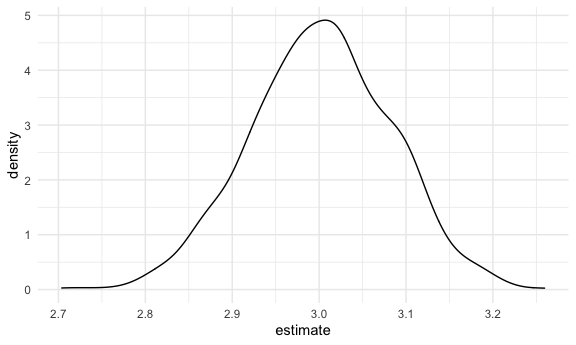
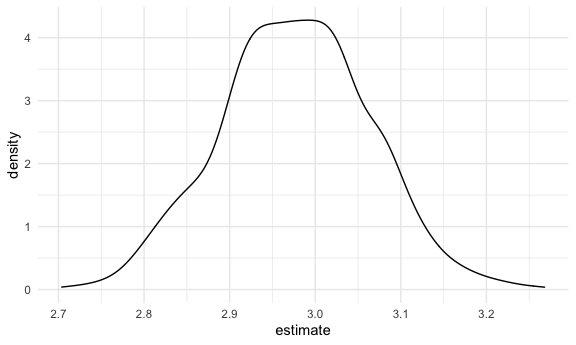
bootstrappping with airbnb dataset

diff --git a/bootstrapping.md b/bootstrapping.md
@@ -18,6 +18,7 @@ library(tidyverse)
 
 ``` r
 library(modelr)
+library(p8105.datasets)
 
 knitr::opts_chunk$set(
   fig.width = 6,
@@ -98,8 +99,8 @@ lm(y ~ x, data = sim_df_const) %>%  broom::tidy()
     ## # A tibble: 2 x 5
     ##   term        estimate std.error statistic   p.value
     ##   <chr>          <dbl>     <dbl>     <dbl>     <dbl>
-    ## 1 (Intercept)     2.02    0.0845      23.9 2.09e- 66
-    ## 2 x               2.98    0.0604      49.4 2.61e-130
+    ## 1 (Intercept)     1.85    0.0948      19.5 4.04e- 52
+    ## 2 x               3.12    0.0664      47.0 1.72e-125
 
 ``` r
 lm(y ~ x, data = sim_df_nonconst) %>%  broom::tidy()
@@ -108,8 +109,8 @@ lm(y ~ x, data = sim_df_nonconst) %>%  broom::tidy()
     ## # A tibble: 2 x 5
     ##   term        estimate std.error statistic   p.value
     ##   <chr>          <dbl>     <dbl>     <dbl>     <dbl>
-    ## 1 (Intercept)     1.99    0.0857      23.2 3.41e- 64
-    ## 2 x               3.00    0.0613      48.9 2.00e-129
+    ## 1 (Intercept)     2.09    0.102       20.6 1.22e- 55
+    ## 2 x               2.98    0.0711      41.9 1.88e-114
 
 Step 2 - bootstrap \#\# Draw one bootstrap sample
 
@@ -147,8 +148,8 @@ boot_sample(sim_df_nonconst) %>%
     ## # A tibble: 2 x 5
     ##   term        estimate std.error statistic   p.value
     ##   <chr>          <dbl>     <dbl>     <dbl>     <dbl>
-    ## 1 (Intercept)     1.94    0.0823      23.6 2.10e- 65
-    ## 2 x               3.02    0.0603      50.1 8.15e-132
+    ## 1 (Intercept)     2.12    0.0976      21.7 2.41e- 59
+    ## 2 x               2.92    0.0671      43.6 3.09e-118
 
 ## Many samples and analysis
 
@@ -189,8 +190,8 @@ boot_results %>%
     ## # A tibble: 2 x 3
     ##   term        mean_est sd_est
     ##   <chr>          <dbl>  <dbl>
-    ## 1 (Intercept)     1.99 0.0591
-    ## 2 x               3.00 0.0811
+    ## 1 (Intercept)     2.09 0.0635
+    ## 2 x               2.98 0.0878
 
 look at the distributions
 
@@ -219,8 +220,8 @@ boot_results %>%
     ## # A tibble: 2 x 3
     ##   term        ci_lower ci_upper
     ##   <chr>          <dbl>    <dbl>
-    ## 1 (Intercept)     1.87     2.10
-    ## 2 x               2.85     3.16
+    ## 1 (Intercept)     1.97     2.22
+    ## 2 x               2.81     3.15
 
 ## Bootstrap using modelr package
 
@@ -247,5 +248,84 @@ sim_df_nonconst %>%
     ## # A tibble: 2 x 3
     ##   term        ci_lower ci_upper
     ##   <chr>          <dbl>    <dbl>
-    ## 1 (Intercept)     1.88     2.10
-    ## 2 x               2.83     3.16
+    ## 1 (Intercept)     1.97     2.22
+    ## 2 x               2.81     3.14
+
+## Revisit nyc airbnb
+
+``` r
+data("nyc_airbnb")
+
+nyc_airbnb = 
+  nyc_airbnb %>% 
+  mutate(stars = review_scores_location / 2) %>% 
+  rename(
+    borough = neighbourhood_group,
+    neighbourhood = neighbourhood) %>% 
+  filter(borough != "Staten Island") %>% 
+  select(price, stars, borough, neighbourhood, room_type) 
+```
+
+``` r
+nyc_airbnb %>% 
+  ggplot(aes( x = stars, y = price)) +
+  geom_point()
+```
+
+    ## Warning: Removed 9962 rows containing missing values (geom_point).
+
+<img src="bootstrapping_files/figure-gfm/unnamed-chunk-15-1.png" width="90%" />
+
+``` r
+airbnb_boot_results =
+  nyc_airbnb %>% 
+  filter(borough == "Manhattan") %>% 
+  drop_na(stars) %>% 
+  bootstrap(1000, id = "strap_number") %>% 
+    mutate(
+    models = map(.x = strap, ~lm(price ~ stars, data = .x)),
+    results = map(models, broom::tidy)
+  ) %>% 
+  select(strap_number, results) %>% 
+  unnest(results)
+
+airbnb_boot_results %>% 
+  group_by(term) %>% 
+  summarize(
+    mean_est = mean(estimate),
+    sd_est = sd(estimate)
+  )
+```
+
+    ## `summarise()` ungrouping output (override with `.groups` argument)
+
+    ## # A tibble: 2 x 3
+    ##   term        mean_est sd_est
+    ##   <chr>          <dbl>  <dbl>
+    ## 1 (Intercept)    -33.5  32.4 
+    ## 2 stars           43.1   6.57
+
+compare this to `lm`
+
+``` r
+nyc_airbnb %>% 
+  filter(borough == "Manhattan") %>% 
+  drop_na(stars) %>% 
+  lm(price ~ stars, data = .) %>% 
+  broom::tidy()
+```
+
+    ## # A tibble: 2 x 5
+    ##   term        estimate std.error statistic  p.value
+    ##   <chr>          <dbl>     <dbl>     <dbl>    <dbl>
+    ## 1 (Intercept)    -34.3     22.9      -1.50 1.35e- 1
+    ## 2 stars           43.3      4.78      9.07 1.39e-19
+
+``` r
+airbnb_boot_results %>% 
+  filter(term == "stars") %>% 
+  ggplot(aes(x = estimate)) +
+  geom_density()
+```
+
+<img src="bootstrapping_files/figure-gfm/unnamed-chunk-18-1.png" width="90%" />
